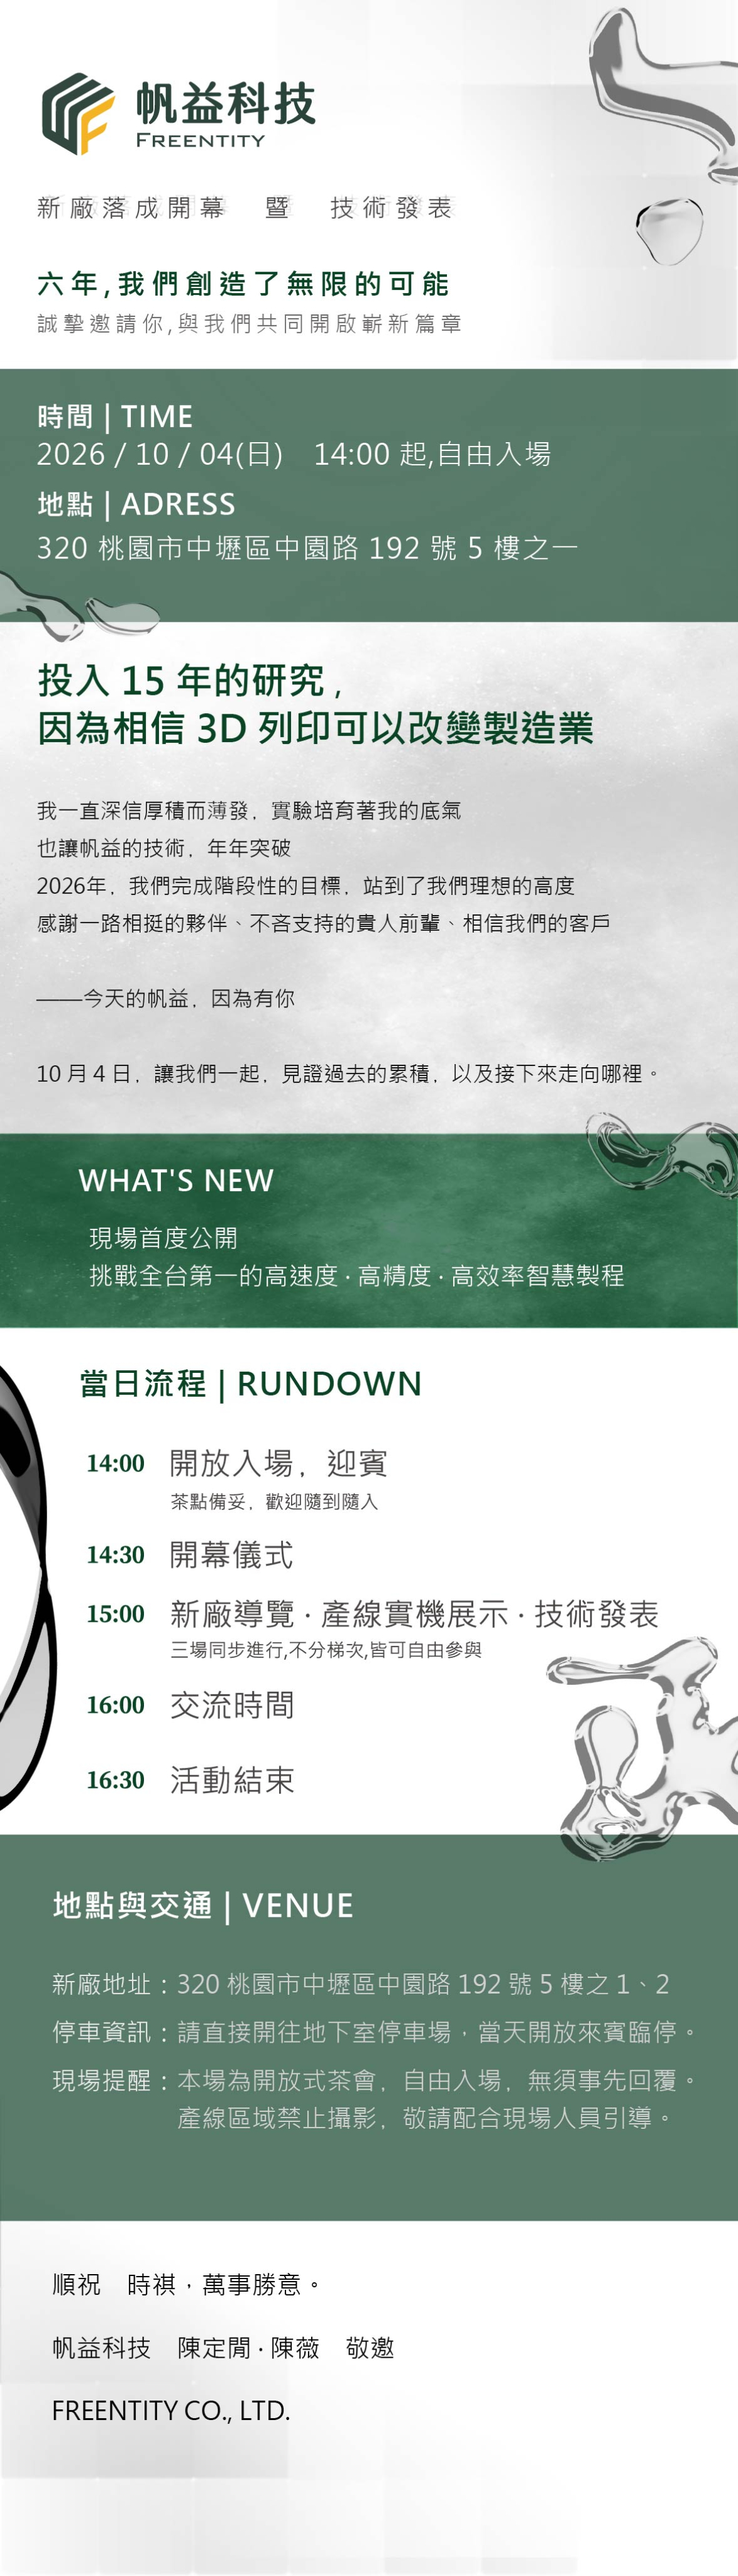
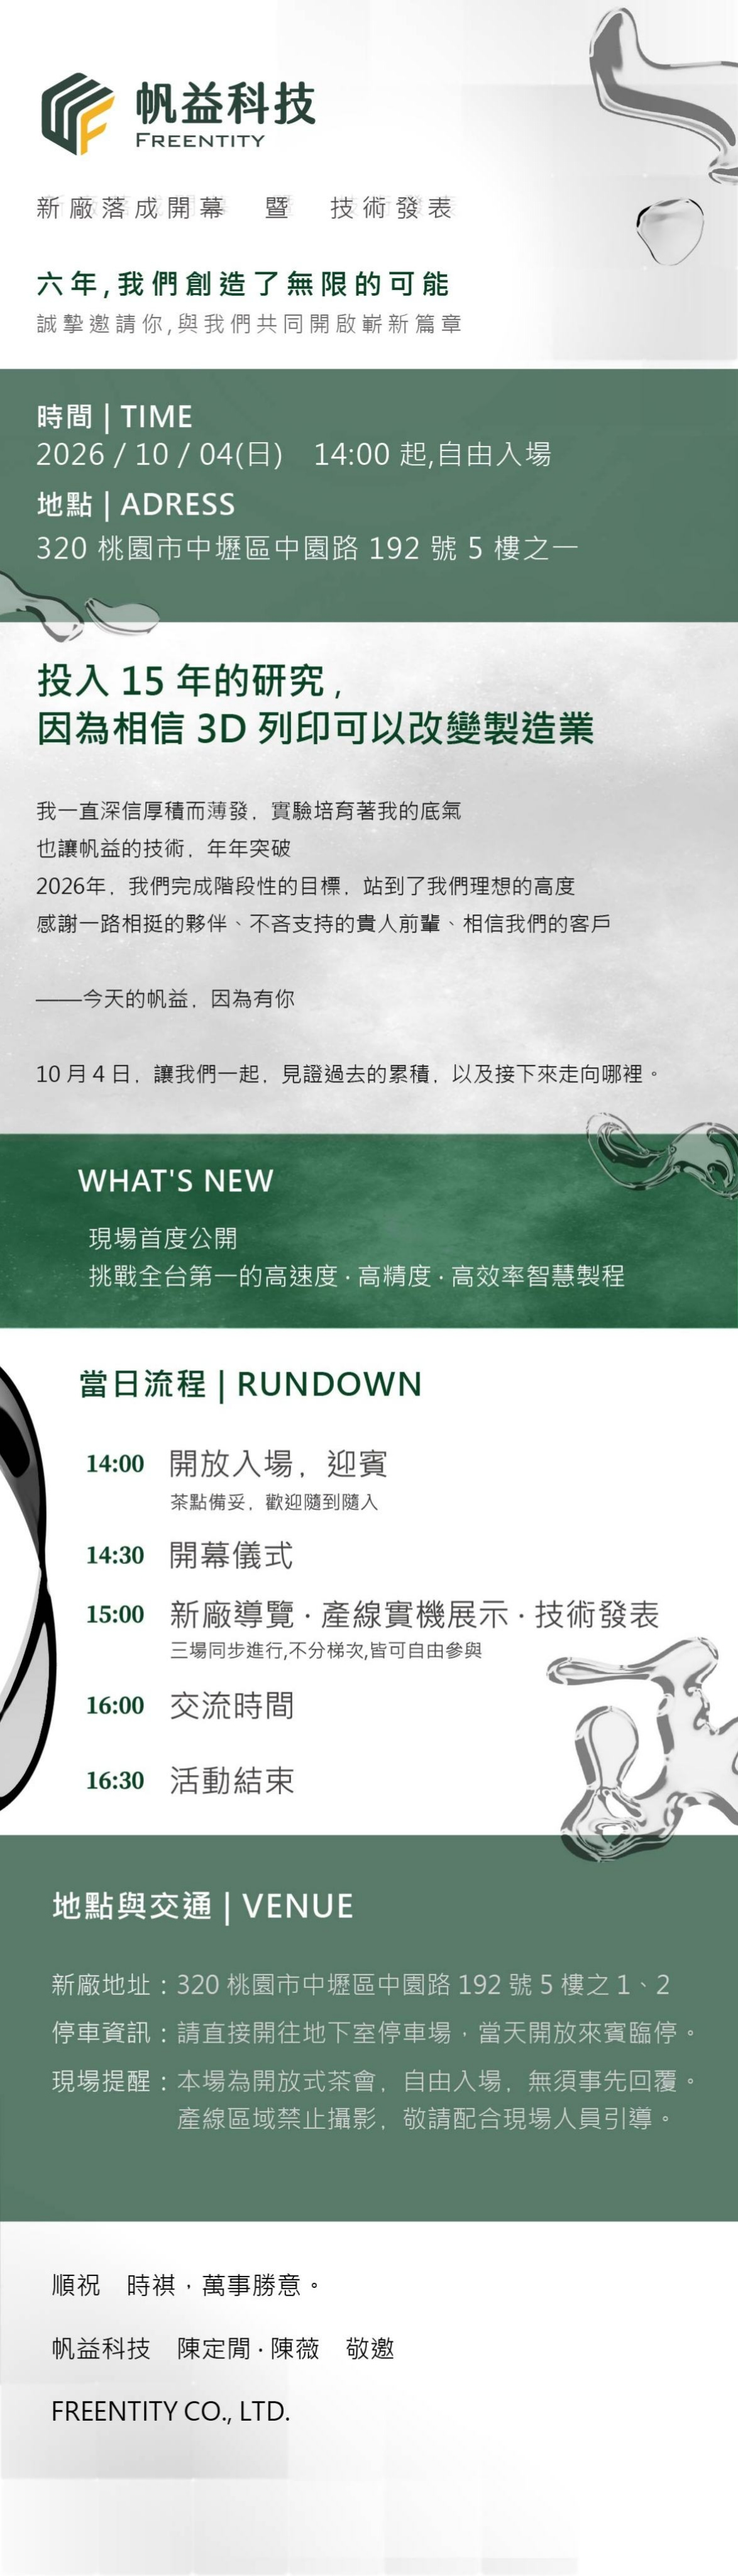
fix(invitation): refresh artwork and LINE preview

diff --git a/tests/utilities.spec.js b/tests/utilities.spec.js
@@ -2,7 +2,7 @@ import { createHash } from 'node:crypto';
 import { readFile } from 'node:fs/promises';
 import { expect, test } from '@playwright/test';
 
[5 lines of base64/hex data omitted]
@@ -14,9 +14,9 @@ async function openInvitation(page) {
   await expect(page.locator('html')).toHaveAttribute('data-state', 'open', { timeout: 4000 });
 }
 
-test('ships the exact original image bytes exported from the Figma frame', async () => {
+test('ships the exact invitation artwork rendered from the approved PDF', async () => {
   const asset = await readFile('assets/figma-invitation.jpeg');
-  expect(createHash('sha256').update(asset).digest('hex')).toBe(expectedFigmaAssetSha256);
+  expect(createHash('sha256').update(asset).digest('hex')).toBe(expectedInvitationAssetSha256);
 });
 
 test('ships the official full-color Freentity logo without changing its pixels', async () => {
@@ -35,6 +35,14 @@ test('ships the supplied social preview artwork without changing its pixels', as
   expect(createHash('sha256').update(asset).digest('hex')).toBe(expectedSocialPreviewSha256);
 });
 
+test('ships a cache-busting copy of the supplied social preview artwork', async () => {
+  const originalAsset = await readFile('assets/social-preview.jpg');
+  const versionedAsset = await readFile('assets/social-preview-20260828.jpg');
+
+  expect(createHash('sha256').update(versionedAsset).digest('hex')).toBe(expectedSocialPreviewSha256);
+  expect(versionedAsset.equals(originalAsset)).toBe(true);
+});
+
 test('keeps the complete invitation transcript available to assistive technology', async ({ page }) => {
   await openInvitation(page);
   const transcript = page.locator('#invitation-transcript');
@@ -49,7 +57,7 @@ test('keeps the complete invitation transcript available to assistive technology
   await expect(transcript).toContainText('帆益科技 陳定閎・陳薇 敬邀');
 });
 
-test('loads every reading page from the repository-local Figma asset', async ({ page, request }) => {
+test('loads every reading page from the repository-local invitation asset', async ({ page, request }) => {
   const asset = await request.get('./assets/figma-invitation.jpeg');
   expect(asset.ok()).toBe(true);
   expect(asset.headers()['content-type']).toBe('image/jpeg');

diff --git a/index.html b/index.html
@@ -12,8 +12,8 @@
     <meta property="og:title" content="帆益科技｜新廠落成開幕暨技術發表">
     <meta property="og:description" content="誠摯邀請您參與帆益科技新廠落成開幕暨技術發表。">
     <meta property="og:url" content="https://erict1230.github.io/Freentity/">
-    <meta property="og:image" content="https://erict1230.github.io/Freentity/assets/social-preview.jpg">
-    <meta property="og:image:secure_url" content="https://erict1230.github.io/Freentity/assets/social-preview.jpg">
+    <meta property="og:image" content="https://erict1230.github.io/Freentity/assets/social-preview-20260828.jpg">
+    <meta property="og:image:secure_url" content="https://erict1230.github.io/Freentity/assets/social-preview-20260828.jpg">
     <meta property="og:image:type" content="image/jpeg">
     <meta property="og:image:width" content="1920">
     <meta property="og:image:height" content="1080">
@@ -21,7 +21,7 @@
     <meta name="twitter:card" content="summary_large_image">
     <meta name="twitter:title" content="帆益科技｜新廠落成開幕暨技術發表">
     <meta name="twitter:description" content="誠摯邀請您參與帆益科技新廠落成開幕暨技術發表。">
-    <meta name="twitter:image" content="https://erict1230.github.io/Freentity/assets/social-preview.jpg">
+    <meta name="twitter:image" content="https://erict1230.github.io/Freentity/assets/social-preview-20260828.jpg">
     <meta name="twitter:image:alt" content="帆益科技新廠落成開幕暨技術發表邀請函封面">
     <title>帆益科技｜新廠落成開幕暨技術發表</title>
     <link rel="preload" as="image" href="./assets/freentity-logo.png">

diff --git a/tests/deployment.spec.js b/tests/deployment.spec.js
@@ -33,6 +33,7 @@ test('builds a minimal GitHub Pages artifact containing only the exact design an
     'assets/envelope-card.jpg',
     'assets/figma-invitation.jpeg',
     'assets/freentity-logo.png',
+    'assets/social-preview-20260828.jpg',
     'assets/social-preview.jpg',
     'index.html',
     'script.js',
@@ -55,6 +56,7 @@ test('all runtime assets resolve below the repository path', async ({ request })
     './assets/freentity-logo.png',
     './assets/figma-invitation.jpeg',
     './assets/social-preview.jpg',
+    './assets/social-preview-20260828.jpg',
   ];
 
   for (const path of runtimePaths) {
@@ -65,7 +67,7 @@ test('all runtime assets resolve below the repository path', async ({ request })
 
 test('publishes an absolute social preview for link unfurlers', async ({ page, request }) => {
   const siteUrl = 'https://erict1230.github.io/Freentity/';
-  const previewUrl = `${siteUrl}assets/social-preview.jpg`;
+  const previewUrl = `${siteUrl}assets/social-preview-20260828.jpg`;
 
   await page.goto('./');
 
@@ -106,7 +108,7 @@ test('publishes an absolute social preview for link unfurlers', async ({ page, r
     '帆益科技新廠落成開幕暨技術發表邀請函封面',
   );
 
-  const preview = await request.get('./assets/social-preview.jpg');
+  const preview = await request.get('./assets/social-preview-20260828.jpg');
   expect(preview.ok()).toBe(true);
   expect(preview.headers()['content-type']).toBe('image/jpeg');
 });

diff --git a/tests/fidelity.spec.js b/tests/fidelity.spec.js
@@ -1,6 +1,6 @@
 import { expect, test } from '@playwright/test';
 
-test('renders the reconstructed 402 by 1404 reader pixel-for-pixel from the approved Figma frame', async ({ page }) => {
+test('renders the reconstructed 402 by 1404 reader pixel-for-pixel from the approved PDF', async ({ page }) => {
   await page.emulateMedia({ reducedMotion: 'reduce' });
   await page.setViewportSize({ width: 402, height: 874 });
   await page.goto('./');
@@ -15,7 +15,7 @@ test('renders the reconstructed 402 by 1404 reader pixel-for-pixel from the appr
   });
 
   const reader = page.locator('#invitation-reader');
-  await expect(reader).toHaveScreenshot('approved-figma-frame.png', {
+  await expect(reader).toHaveScreenshot('approved-invitation-frame.png', {
     animations: 'disabled',
     maxDiffPixels: 0,
   });

diff --git a/docs/superpowers/plans/2026-08-28-refresh-invitation-and-line-preview.md b/docs/superpowers/plans/2026-08-28-refresh-invitation-and-line-preview.md
@@ -1,0 +1,168 @@
+# Invitation Artwork and LINE Preview Refresh Implementation Plan
+
+> **For agentic workers:** REQUIRED SUB-SKILL: Use superpowers:subagent-driven-development (recommended) or superpowers:executing-plans to implement this plan task-by-task. Steps use checkbox (`- [ ]`) syntax for tracking.
+
+**Goal:** Replace the invitation reader artwork with the approved 2026-08-28 PDF export and make LINE fetch a fresh social preview without changing the envelope, animation, page slicing, layout, or brand colors.
+
+**Architecture:** Keep the current one-image/four-crop reader and replace only its 1174 x 4096 source JPEG. Preserve the existing supplied social artwork, publish the same bytes at a versioned filename, and point OGP/Twitter metadata at that fresh path; the final handoff supplies a query-versioned page URL because LINE cached the root URL before OGP was deployed.
+
+**Tech Stack:** Static HTML/CSS/JavaScript, Node.js build script, Playwright tests, Poppler `pdftoppm`, GitHub Pages.
+
+**Spec:** `C:\Users\user\Downloads\iPhone 17 - 2.pdf` plus the user-approved bounded design in the current Codex thread.
+
+## Global Constraints
+
+- Preserve the existing envelope, opening sequence, four page crop boundaries, responsive layout, and all interaction code.
+- Preserve the official full-color Freentity logo and the supplied social preview artwork without pixel changes.
+- Use only static files compatible with GitHub Pages; add no server, API, database, custom domain, or paid service.
+- Keep the invitation raster at exactly 1174 x 4096 pixels so existing desktop and mobile crop geometry remains unchanged.
+- Deploy only after Chromium, WebKit, static build, asset hash, and live HTTP checks pass.
+
+---
+
+### Task 1: Lock the refreshed assets and metadata in tests
+
+**Files:**
+- Modify: `tests/utilities.spec.js`
+- Modify: `tests/deployment.spec.js`
+
+**Interfaces:**
+- Consumes: `assets/figma-invitation.jpeg`, `assets/social-preview.jpg`, `index.html`, and `scripts/build-site.mjs`.
+- Produces: Exact SHA-256 expectations and the public `assets/social-preview-20260828.jpg` metadata contract.
+
+- [x] **Step 1: Write the failing invitation asset test**
+
+Change `expectedFigmaAssetSha256` to:
+
+~~~js
[1 lines of base64/hex data omitted]
+~~~
+
+- [x] **Step 2: Write the failing versioned preview tests**
+
+Add `assets/social-preview-20260828.jpg` to the expected build file list and runtime URL list. Change the expected `og:image`, `og:image:secure_url`, and `twitter:image` URL to:
+
+~~~js
+const previewUrl = siteUrl + 'assets/social-preview-20260828.jpg';
+~~~
+
+Add a request assertion proving the versioned preview returns `image/jpeg`, and add a hash test proving it is byte-identical to the supplied social preview:
+
+~~~js
+const versionedAsset = await readFile('assets/social-preview-20260828.jpg');
+expect(createHash('sha256').update(versionedAsset).digest('hex')).toBe(expectedSocialPreviewSha256);
+~~~
+
+- [x] **Step 3: Run the focused tests and verify RED**
+
+Run: `npx playwright test tests/utilities.spec.js tests/deployment.spec.js`
+
+Expected: FAIL because the invitation hash is still the previous export, the versioned social preview file is absent, and metadata still references `social-preview.jpg`.
+
+### Task 2: Replace only the approved static assets and metadata
+
+**Files:**
+- Replace: `assets/figma-invitation.jpeg`
+- Create: `assets/social-preview-20260828.jpg`
+- Modify: `index.html`
+- Modify: `scripts/build-site.mjs`
+
+**Interfaces:**
+- Consumes: the new 402 x 1404 PDF and the existing approved social artwork.
+- Produces: a 1174 x 4096 JPEG and a fresh OGP image URL while retaining the old preview file for cached clients.
+
+- [x] **Step 1: Render the approved PDF at the locked dimensions**
+
+Run:
+
+~~~powershell
+pdftoppm -f 1 -singlefile -jpeg -jpegopt quality=95 -scale-to-x 1174 -scale-to-y 4096 "C:\Users\user\Downloads\iPhone 17 - 2.pdf" assets\figma-invitation
+~~~
+
[1 lines of base64/hex data omitted]
+
+- [x] **Step 2: Create the cache-busting social preview asset**
+
+Copy `assets/social-preview.jpg` byte-for-byte to `assets/social-preview-20260828.jpg`. Keep the original file so previously cached metadata does not reference a deleted resource.
+
+- [x] **Step 3: Point metadata and the build at the versioned asset**
+
+Update `og:image`, `og:image:secure_url`, and `twitter:image` in `index.html` to the absolute versioned URL. Add the new asset to `runtimeFiles` in `scripts/build-site.mjs`.
+
+- [x] **Step 4: Run the focused tests and verify GREEN**
+
+Run: `npx playwright test tests/utilities.spec.js tests/deployment.spec.js`
+
+Expected: PASS.
+
+### Task 3: Verify rendering, responsive behavior, and deployment output
+
+**Files:**
+- Verify: `index.html`
+- Verify: `styles.css`
+- Verify: `script.js`
+- Generated: `test-results/**`
+- Generated: `_site/**`
+
+**Interfaces:**
+- Consumes: the integrated static site.
+- Produces: test and visual evidence that the approved artwork changed while the reader and envelope did not.
+
+- [x] **Step 1: Run Chromium coverage**
+
+Run: `npm test`
+
+Expected: all Chromium tests PASS.
+
+- [x] **Step 2: Run WebKit coverage**
+
+Run: `npm run test:webkit`
+
+Expected: all WebKit tests PASS.
+
+- [x] **Step 3: Build the GitHub Pages artifact**
+
+Run: `npm run build`
+
+Expected: exit 0 and `_site/assets/social-preview-20260828.jpg` exists.
+
+- [x] **Step 4: Visually inspect the rendered invitation**
+
+Open the site at desktop and iPhone widths, complete the envelope animation, and verify all four artwork sections remain full-width, uncropped outside the approved boundaries, and readable.
+
+### Task 4: Review, publish, and verify the public cache-busted URL
+
+**Files:**
+- Review: all changed paths
+- Publish: `main`
+
+**Interfaces:**
+- Consumes: reviewed passing diff.
+- Produces: a successful GitHub Pages deployment and a LINE-ready URL.
+
+- [x] **Step 1: Run independent code review**
+
+Review the diff for scope adherence, static-host compatibility, test completeness, and accidental changes to animation or responsive CSS. Resolve every blocking finding and rerun affected tests.
+
+- [x] **Step 2: Commit the exact approved scope**
+
+Stage only the plan, tests, refreshed invitation JPEG, versioned preview JPEG, `index.html`, and `scripts/build-site.mjs`. Commit with:
+
+~~~text
+fix(invitation): refresh artwork and LINE preview
+~~~
+
+- [x] **Step 3: Push and wait for GitHub Pages**
+
+Push `main`, wait for the matching GitHub Actions Pages run to succeed, and verify the deployed revision is the committed SHA.
+
+- [x] **Step 4: Verify live crawler inputs**
+
+Confirm the versioned page URL returns the three LINE-supported OGP tags and the versioned image returns HTTP 200, `image/jpeg`, the expected byte length, and the expected SHA-256:
+
+~~~text
+https://erict1230.github.io/Freentity/?v=20260828
+https://erict1230.github.io/Freentity/assets/social-preview-20260828.jpg
+~~~
+
+Expected: both checks PASS. Advise the user to share the query-versioned page URL so LINE generates a new cache entry.
